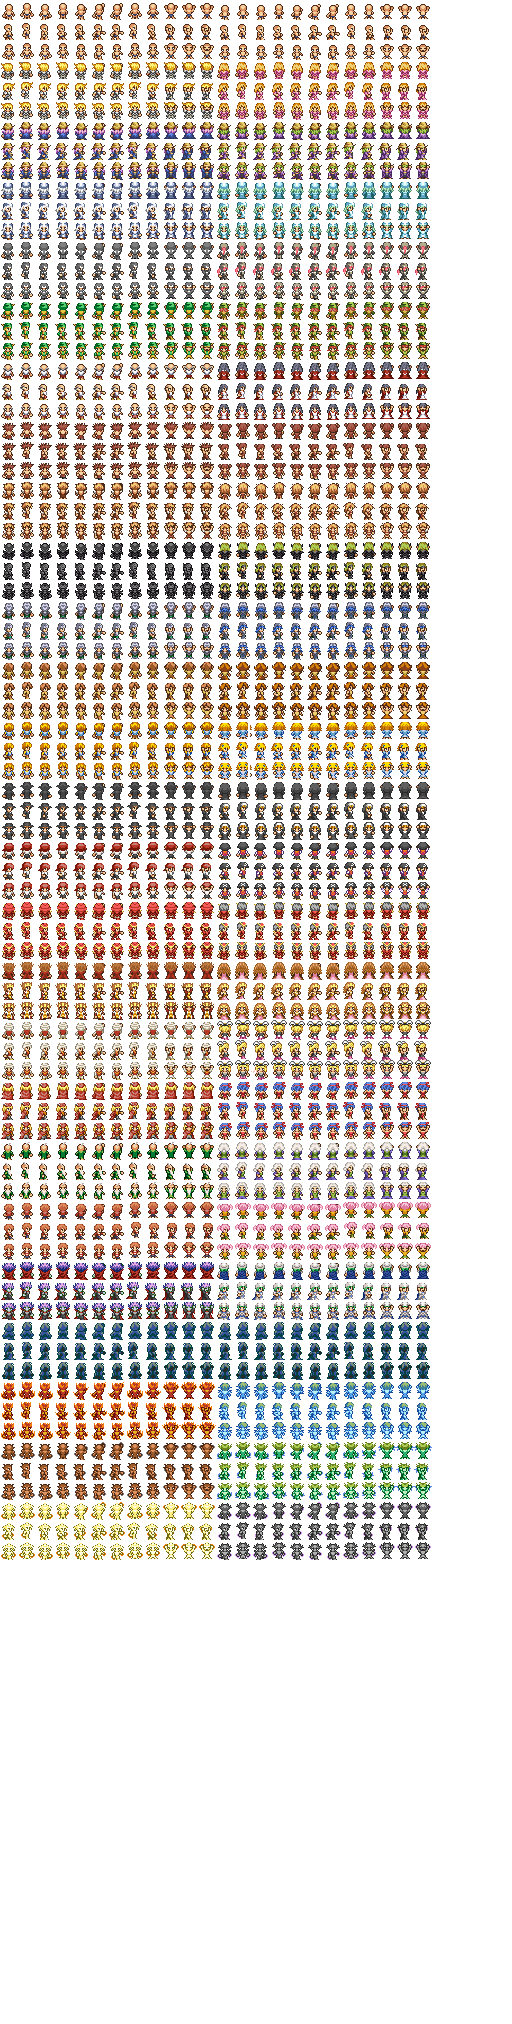
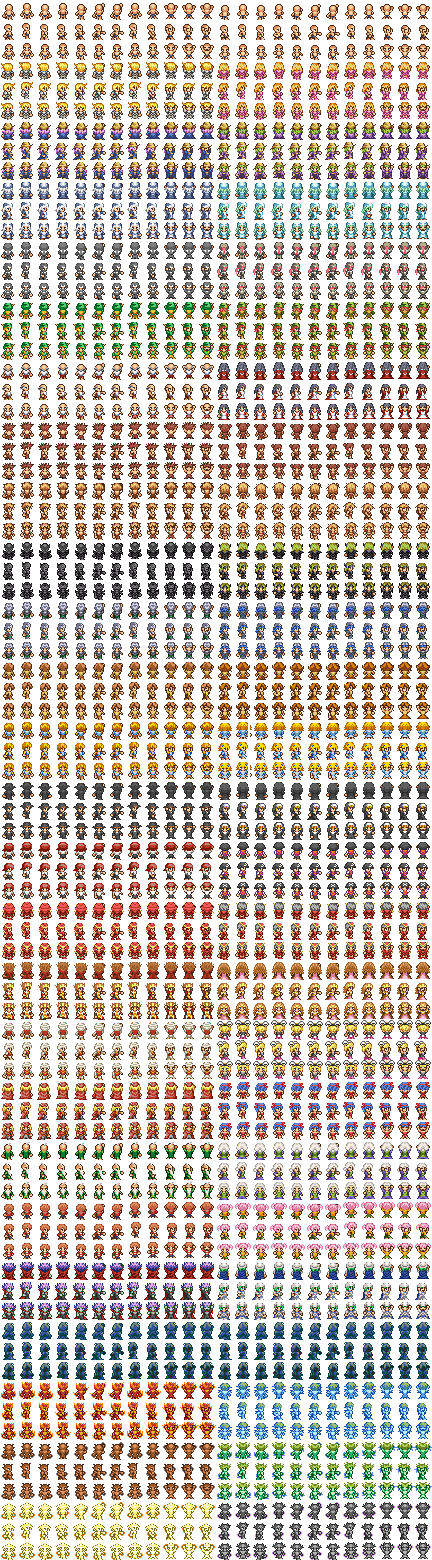
Crop characters sheet to remove dead space

diff --git a/src/external/README.md b/src/external/README.md
@@ -6,10 +6,10 @@ The contents of the DawnLike directory were extracted from a zip file that
 was downloaded from: https://opengameart.org/content/dawnlike-16x16-universal-rogue-like-tileset-v181
 on November 26, 2017.
 
-Zip SHA-256: eec5602d657183fa887339b6dada0f6ab0f460ac0d0cf486ff08fea199fa47f3
+Zip file's SHA-256: eec5602d657183fa887339b6dada0f6ab0f460ac0d0cf486ff08fea199fa47f3
 
 ## antifarea_18x20chars.png
 
-This image was downloaded from https://opengameart.org/content/18x20-characters-walkattackcast-spritesheet on December 1, 2017.
+This image was downloaded from https://opengameart.org/content/18x20-characters-walkattackcast-spritesheet on December 1, 2017. Minor alteration was made by cropping out empty space.
 
-File SHA-256: 63849a9305dd8e53b115ecdfcd4d247226c9b8f08f33c010047d0f1cf997afe8
+Uncropped file's SHA-256: 63849a9305dd8e53b115ecdfcd4d247226c9b8f08f33c010047d0f1cf997afe8
